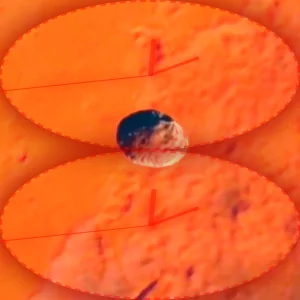
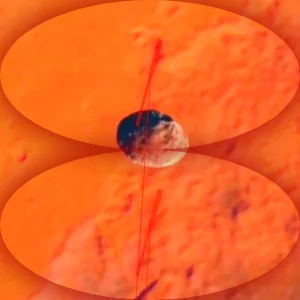
d

diff --git a/src/pages/2026/26-07/26-07-31/Clock.module.css b/src/pages/2026/26-07/26-07-31/Clock.module.css
@@ -52,7 +52,7 @@
   height: 100vw;
   /* max-width: 50vh; Prevent clocks from being too large on tall, narrow screens */
   /* max-height: 50vh; */
-  border: 2px dashed rgba(255, 0, 0, 0.4);
+  /* border: 2px dashed rgba(255, 0, 0, 0.4); */
   border-radius: 50%;
   animation: pulse-red 2s infinite ease-in-out;
 }
@@ -66,8 +66,8 @@
     /* Each clock takes up just under half the viewport height */
     width: 50vh;
     height: 50vh;
-    max-width: 50vw; /* Ensure it doesn't exceed screen width */
-    max-height: 50vw;
+    /* max-width: 50vw; /* Ensure it doesn't exceed screen width */
+    /* max-height: 50vw; */ */
   }
 }
 
